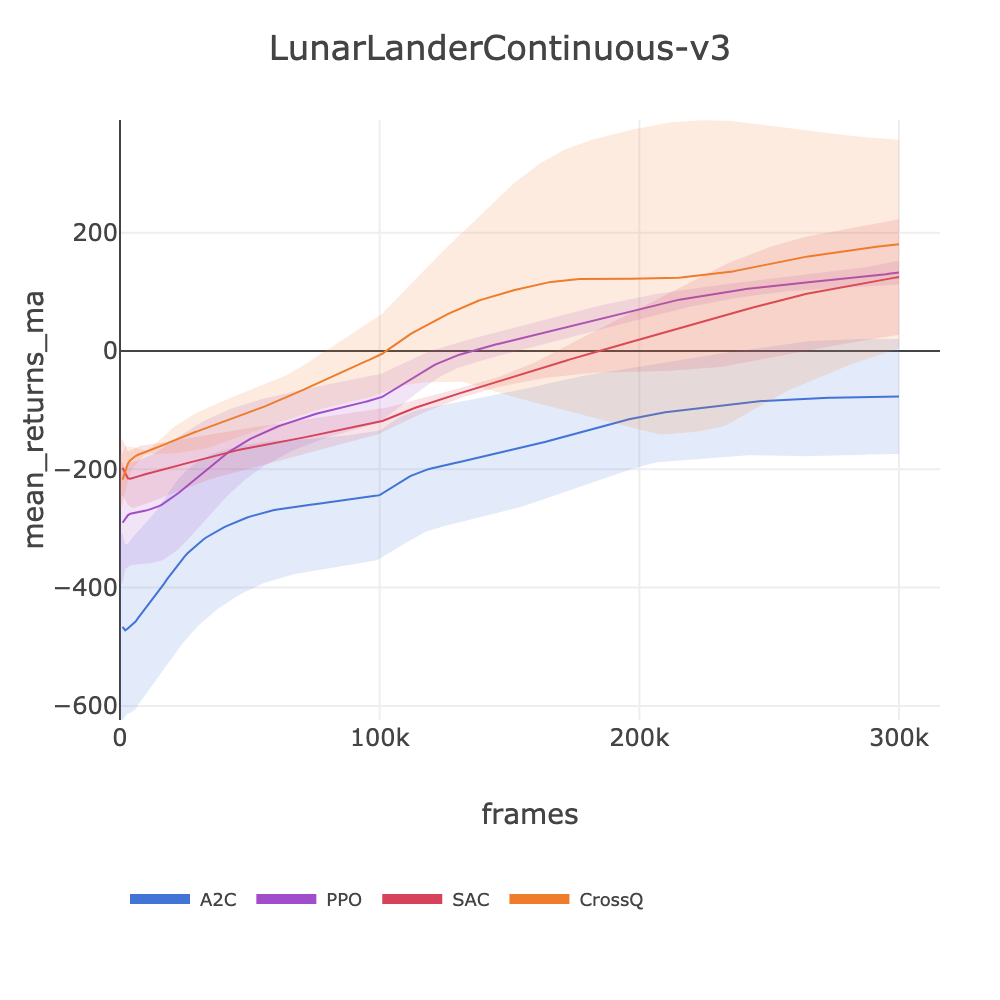
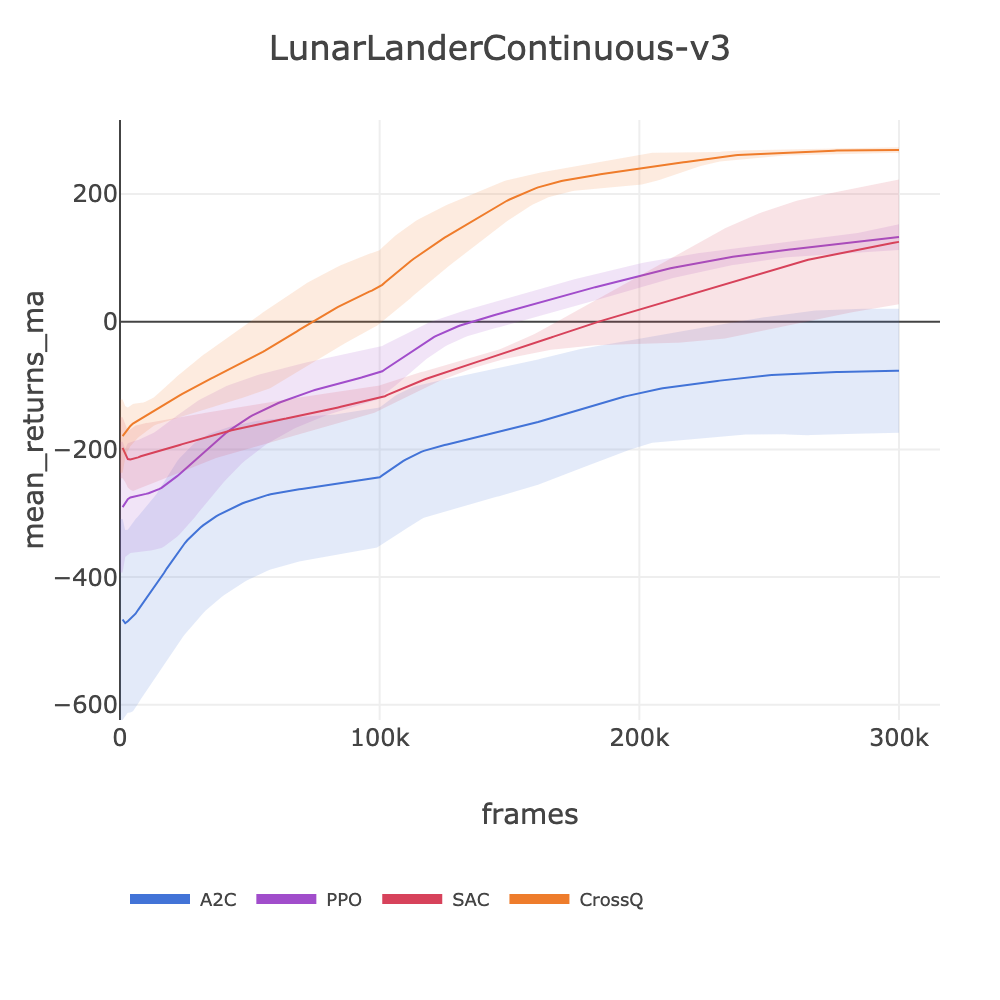
docs: update CrossQ LunarLanderContinuous score 249.85→268.91 from rerun

diff --git a/docs/BENCHMARKS.md b/docs/BENCHMARKS.md
@@ -203,7 +203,7 @@ Search budget: ~3-4 trials per dimension (8 trials = 2-3 dims, 16 = 3-4 dims, 20
 | A2C | ❌ | -76.81 | [slm_lab/spec/benchmark_arc/a2c/a2c_classic_arc.yaml](../slm_lab/spec/benchmark_arc/a2c/a2c_classic_arc.yaml) | a2c_gae_lunar_continuous_arc | [a2c_gae_lunar_continuous_arc_2026_02_11_224301](https://huggingface.co/datasets/SLM-Lab/benchmark/tree/main/data/a2c_gae_lunar_continuous_arc_2026_02_11_224301) |
 | PPO | ⚠ | 132.58 | [slm_lab/spec/benchmark_arc/ppo/ppo_box2d_arc.yaml](../slm_lab/spec/benchmark_arc/ppo/ppo_box2d_arc.yaml) | ppo_lunar_continuous_arc | [ppo_lunar_continuous_arc_2026_02_11_224229](https://huggingface.co/datasets/SLM-Lab/benchmark/tree/main/data/ppo_lunar_continuous_arc_2026_02_11_224229) |
 | SAC | ⚠ | 125.00 | [slm_lab/spec/benchmark_arc/sac/sac_box2d_arc.yaml](../slm_lab/spec/benchmark_arc/sac/sac_box2d_arc.yaml) | sac_lunar_continuous_arc | [sac_lunar_continuous_arc_2026_02_12_222203](https://huggingface.co/datasets/SLM-Lab/benchmark/tree/main/data/sac_lunar_continuous_arc_2026_02_12_222203) |
-| CrossQ | ✅ | 249.85 | [slm_lab/spec/benchmark/crossq/crossq_box2d.yaml](../slm_lab/spec/benchmark/crossq/crossq_box2d.yaml) | crossq_lunar_continuous | [crossq_lunar_continuous_arc_2026_02_21_100052](https://huggingface.co/datasets/SLM-Lab/benchmark/tree/main/data/crossq_lunar_continuous_arc_2026_02_21_100052) |
+| CrossQ | ✅ | 268.91 | [slm_lab/spec/benchmark/crossq/crossq_box2d.yaml](../slm_lab/spec/benchmark/crossq/crossq_box2d.yaml) | crossq_lunar_continuous | [crossq_lunar_continuous_2026_03_01_140517](https://huggingface.co/datasets/SLM-Lab/benchmark/tree/main/data/crossq_lunar_continuous_2026_03_01_140517) |
 
 ![LunarLanderContinuous-v3](plots/LunarLanderContinuous-v3_multi_trial_graph_mean_returns_ma_vs_frames.png)
 
